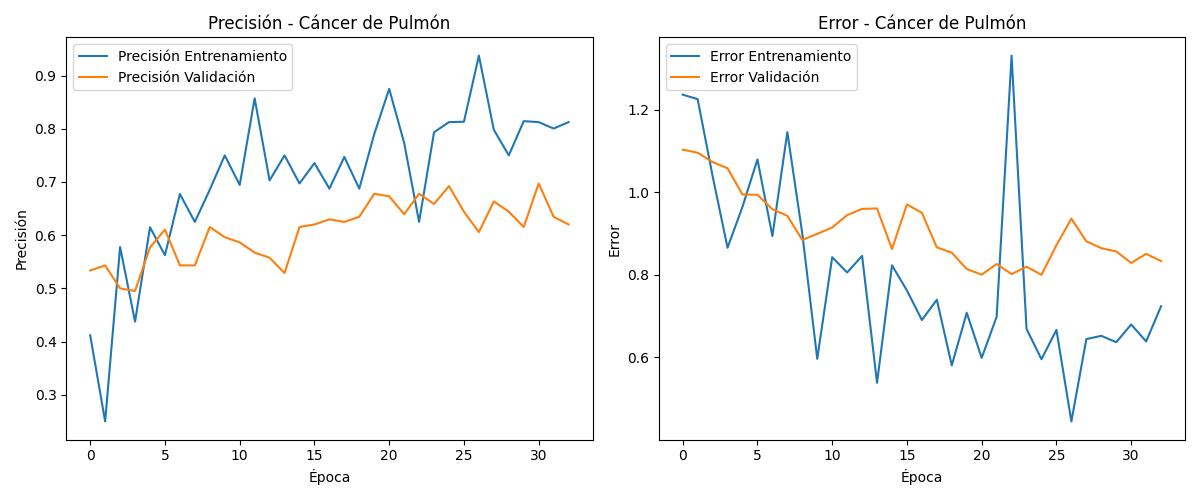
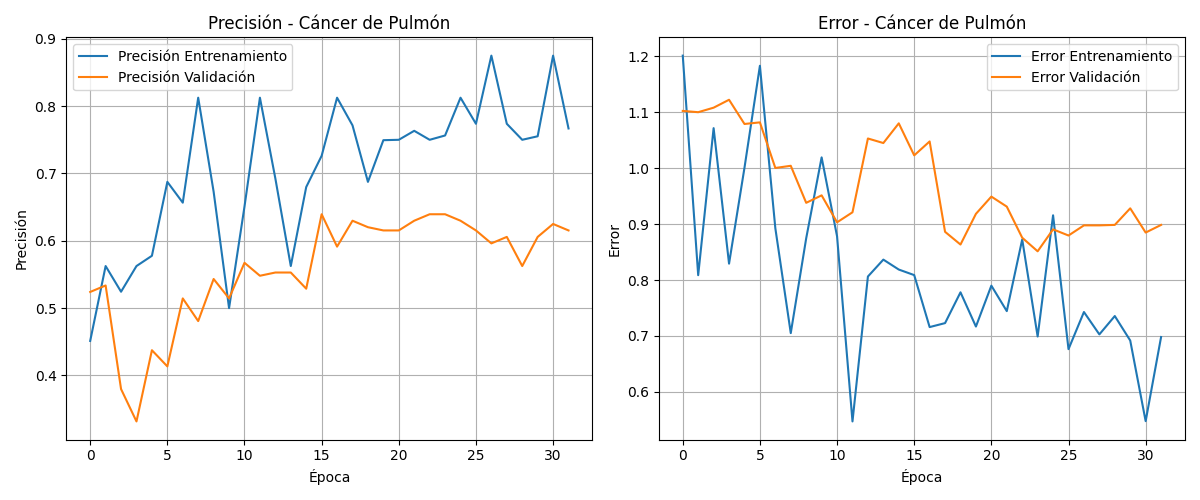
Grafica_Pulmon_Agregada

diff --git a/03_LABORATORIO_ENTRENAMIENTO/A_Modulo_Pulmon/entrenar_pulmon.py b/03_LABORATORIO_ENTRENAMIENTO/A_Modulo_Pulmon/entrenar_pulmon.py
@@ -8,6 +8,8 @@ from tensorflow.keras.applications import VGG16
 from PIL import Image
 from collections import Counter
 import matplotlib.pyplot as plt
+import os
+import matplotlib.pyplot as plt
 
 # --- 1. CONFIGURACIÓN ---
 BASE_DIR = os.path.dirname(os.path.abspath(__file__))
@@ -187,6 +189,8 @@ model.save(MODEL_SAVE_PATH)
 print(f"✅ Modelo guardado exitosamente en:\n   {os.path.abspath(MODEL_SAVE_PATH)}")
 
 # --- 9. GRAFICADO DE RESULTADOS ---
+
+# Unir historial de entrenamiento
 def concat_history(hist1, hist2):
     result = {}
     for k in hist1.history.keys():
@@ -195,10 +199,10 @@ def concat_history(hist1, hist2):
 
 full_history = concat_history(history_1, history_2)
 
-import matplotlib.pyplot as plt
+# Grafica precicion y error
 plt.figure(figsize=(12, 5))
 
-# Precisión
+# -------- Precicion --------
 plt.subplot(1, 2, 1)
 plt.plot(full_history['accuracy'], label='Precisión Entrenamiento')
 plt.plot(full_history['val_accuracy'], label='Precisión Validación')
@@ -206,8 +210,9 @@ plt.title('Precisión - Cáncer de Pulmón')
 plt.xlabel('Época')
 plt.ylabel('Precisión')
 plt.legend()
+plt.grid(True)
 
-# Error (Loss)
+# -------- Error(Loss) --------
 plt.subplot(1, 2, 2)
 plt.plot(full_history['loss'], label='Error Entrenamiento')
 plt.plot(full_history['val_loss'], label='Error Validación')
@@ -215,9 +220,12 @@ plt.title('Error - Cáncer de Pulmón')
 plt.xlabel('Época')
 plt.ylabel('Error')
 plt.legend()
+plt.grid(True)
 
 plt.tight_layout()
+
+# Guardar imagen
 plt.savefig(os.path.join(BASE_DIR, "grafica_entrenamiento_pulmon.png"))
 plt.show()
 
-print("¡Entrenamiento finalizado!")
+print("¡Entrenamiento finalizado! Gráfica generada correctamente.")
